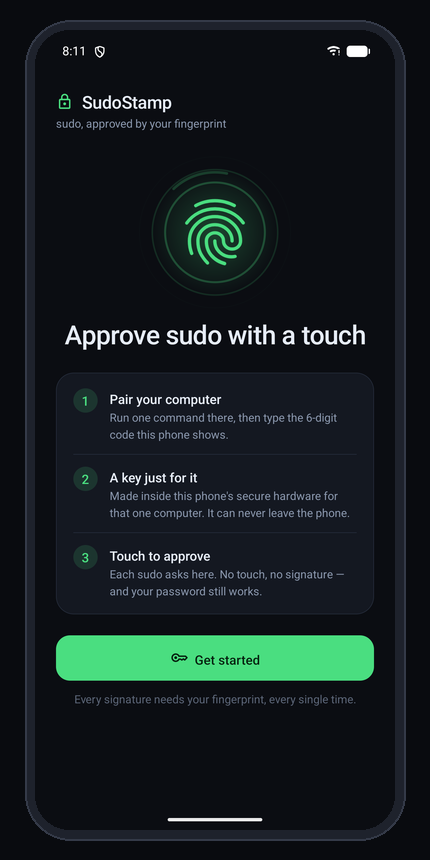
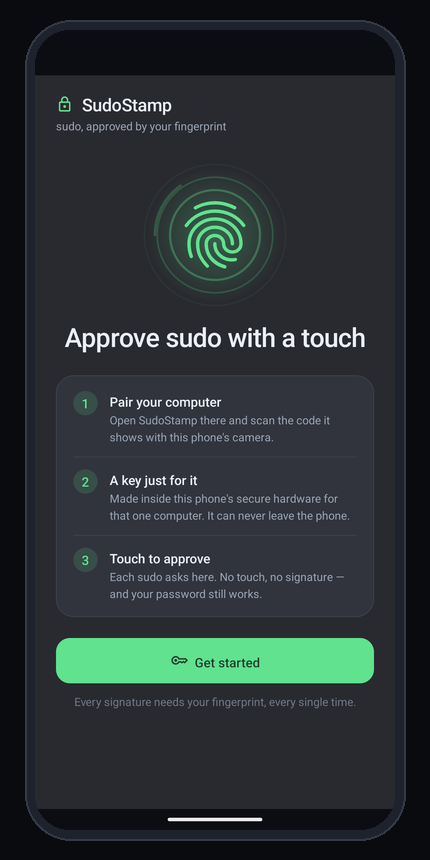
Screens and words for pairing by QR code, checked on the emulator
The real app paired with tools/pair.py over the QR protocol on the emulator (adb forward on the
same port, so the address binding held): the scanning phone answers the hello, another secret gets
nothing, a forged commit is refused and changes nothing on screen, the honest pairing pins the key
(NOT hardware-attested, as an emulator must say), the phone says Paired, and the same code a second
time is refused.

- Words: the confirm screen says the phone did the scanning ("Only if you scanned this code with
  this phone, from your own computer's screen just now"); the waiting screen says which password the
  computer may ask for (its administrator's), not "its own".
- Screenshots, from that run, status bar blanked to the app's background: docs/images onboarding and
  pair-wait (both texts changed), new pair-qr and pair-qr-done; the store's 6.png (onboarding) and a
  new 7.png (Pair with edith?); docs/images/desktop-pair.png from the window render. The README's
  scan section shows the three. The hero shows only the approval screens: unchanged.

Verified: assembleDebug and lint after the string change; scripts/check-listing.sh (7 screenshots);
every new image reviewed.

diff --git a/README.md b/README.md
@@ -115,6 +115,14 @@ the window finds the phone by itself and your computer asks for its password in 
 No phone app yet? The code opens Google Play first. Nothing to type ([Pairing by QR
 code](docs/DESIGN.md#pairing-by-qr-code-17-qr-v1)).
 
+<table>
+  <tr>
+    <td align="center" width="40%"><img src="docs/images/desktop-pair.png" alt="The desktop app's Pair a phone tab: a large QR code, three numbered steps, and Waiting for your phone"></td>
+    <td align="center" width="30%"><img src="docs/images/pair-qr.png" alt="The phone after scanning: Pair with edith? with a Pair button and Cancel"></td>
+    <td align="center" width="30%"><img src="docs/images/pair-qr-done.png" alt="The phone: Paired, edith now has its own key on this phone"></td>
+  </tr>
+</table>
+
 From a terminal, or on a server:
 
 **1. Phone.** Install the app from
